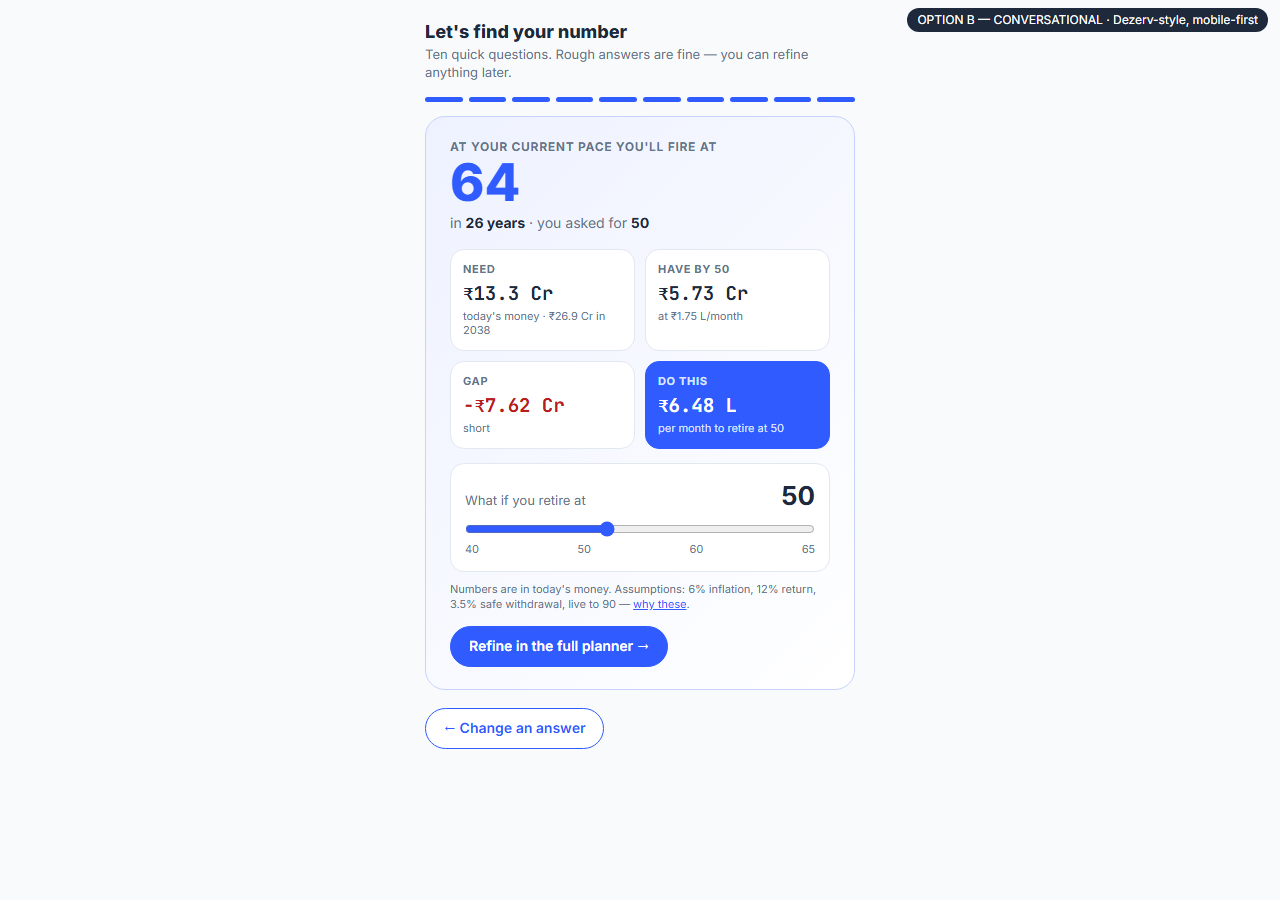
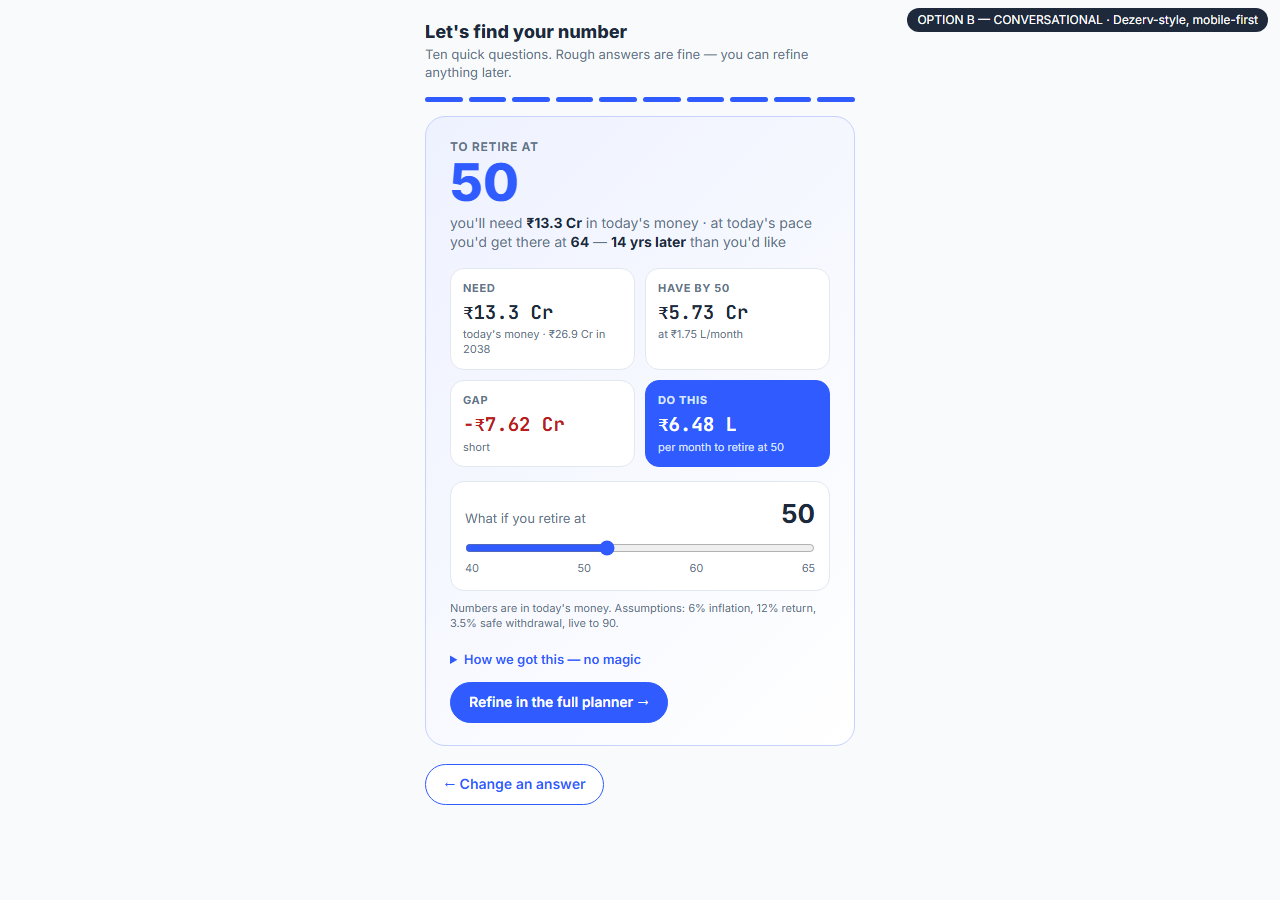
docs(design): Option C merged (B intake → A result, one headline number) + blind-review fixes back-ported to A/B
Reviewer (context-isolated) found: hero showed two ages (pace 64 vs target 50) at equal weight; B's 'why these' was a dead link;
B lacked the house-delta hint; A's raw-rupee inputs invite fat-finger errors; A buried the hero on mobile. C fixes all five;
A/B get the headline fix + real explanation. Screenshots regenerated (390/1280 + result screens).

Claude-Session: https://claude.ai/code/session_01PiqGZ8w4L1igPHy7bza2SS

Changed region(s): [[0.3438, 0.1556, 0.6562, 0.9022]]

diff --git a/docs/design/2026-08-27-quick-number-gap-hero/option-c-merged.html b/docs/design/2026-08-27-quick-number-gap-hero/option-c-merged.html
@@ -1,0 +1,122 @@
+<!doctype html><html><head><meta charset="utf-8"><meta name="viewport" content="width=device-width,initial-scale=1">
+<title>Option C — Merged (B's conversational intake → A's honest result, one headline number)</title>
+<link href="https://fonts.googleapis.com/css2?family=Inter:wght@400;500;600;700;800&family=JetBrains+Mono:wght@500;700&display=swap" rel="stylesheet">
+<link rel="stylesheet" href="fk-mock.css">
+<style>
+.phone{max-width:520px}
+.pace{margin-top:10px;font-size:13px;color:var(--muted);padding:10px 12px;border-radius:12px;background:#fff;border:1px dashed var(--line)}
+.pace b{color:var(--ink)}
+.lakh{position:relative}.lakh input{padding-right:64px}.lakh span{position:absolute;right:12px;top:50%;transform:translateY(-50%);font-size:12px;color:var(--muted);font-weight:600}
+.preview{font-size:12px;color:var(--blue);margin-top:4px;font-weight:600}
+.edit summary{font-size:14px}
+.rows{display:grid;grid-template-columns:1fr 1fr;gap:6px 14px;font-size:13px;margin-top:8px}
+.rows span{color:var(--muted)}.rows b{text-align:right}
+</style></head><body>
+<div class="tag">OPTION C — MERGED · B intake → A result · one number</div>
+<div class="phone">
+<div id="intake">
+  <h1 style="font-size:18px">Let's find your number</h1>
+  <div class="sub">Ten quick questions, answers in lakh. Rough is fine — refine anything later.</div>
+  <div class="dots" id="dots"></div>
+  <div class="card" id="qcard"></div>
+  <div class="sofar" id="sofar"></div>
+  <div class="nav"><button class="btn ghost" id="back">← Back</button><button class="btn" id="next">Next →</button></div>
+</div>
+
+<div id="result" style="display:none">
+  <div class="hero">
+    <div class="eyebrow">To retire at</div>
+    <div class="big" id="tAge">50</div>
+    <div class="when">you'll need <b id="needTop"></b> in today's money · that's <b id="needNom"></b> in <span id="needYear"></span></div>
+    <div class="kpis" style="grid-template-columns:1fr 1fr">
+      <div class="kpi"><div class="k">You'll have by <span id="hAge"></span></div><div class="v mono" id="have"></div><div class="s" id="haveSub"></div></div>
+      <div class="kpi"><div class="k">Gap</div><div class="v mono" id="gap"></div><div class="s" id="gapSub"></div></div>
+      <div class="kpi act" style="grid-column:1/-1"><div class="k">Do this</div><div class="v mono" id="req"></div><div class="s" id="reqSub"></div></div>
+    </div>
+    <div class="slider"><div class="row"><span>Drag your retirement age</span><b id="sv"></b></div><input type="range" id="sl" min="40" max="65"><div class="ticks"><span>40</span><span>45</span><span>50</span><span>55</span><span>60</span><span>65</span></div><div class="hint" id="slHint"></div></div>
+    <div class="pace" id="pace"></div>
+  </div>
+
+  <div class="card"><h3>How we got this — no magic</h3><ol class="explain" id="explain"></ol>
+    <div class="hint" style="margin-top:8px">Assumptions: <span id="assump"></span> · live to 90. Honest defaults, not sales defaults.</div></div>
+  <div class="card"><h3>What you'll have vs what you'll need · today's money</h3><svg class="chart" id="chart" viewBox="0 0 600 170" preserveAspectRatio="none"></svg>
+    <div class="legend" style="font-size:12px"><span style="color:var(--blue)">■</span> have &nbsp; <span style="color:var(--amber)">■</span> need &nbsp; · dashed = your target</div></div>
+  <div class="card edit"><details><summary>Your answers — tap to change</summary><div class="rows" id="rows"></div>
+    <div style="margin-top:12px"><button class="btn ghost" id="reopen">Edit answers</button></div></details></div>
+  <div class="card" style="display:flex;justify-content:space-between;align-items:center;gap:12px">
+    <div><b>Happy with the shape?</b><div class="hint">Refine income, investments, insurance and taxes in the full planner. Your answers carry over.</div></div>
+    <button class="btn" style="flex:none">Open full planner →</button>
+  </div>
+</div>
+</div>
+
+<script src="fk-mock.js"></script>
+<script>
+const $=id=>document.getElementById(id); const i={...FK.AMIT}; const L=FK.L;
+const Q=[
+ {k:"age",q:"How old are you?",h:"We plan from today to age 90 — 40 years of spending, not 15.",type:"num"},
+ {k:"targetAge",q:"When would you like to stop working?",h:"A guess is fine — you'll drag this on the next screen.",type:"chips",opts:[45,50,55,60]},
+ {k:"spend",q:"What does your household spend in a month?",h:"Everything — EMI, school fees, travel, help. ₹2.5–3 L? Say 2.8.",lakh:true},
+ {k:"corpus",q:"Financial savings so far?",h:"Mutual funds + EPF + NPS + PPF + FDs. Not the house you live in.",lakh:true},
+ {k:"sip",q:"How much do you invest every month?",h:"SIPs plus your and your employer's PF, all together.",lakh:true},
+ {k:"spouseCorpus",q:"Spouse's savings, if any?",h:"Their MF + PF. Untick if not applicable.",lakh:true,toggle:"includeSpouse"},
+ {k:"kids",q:"Kids?",h:"How many, and roughly how old?",type:"chips",opts:[0,1,2,3],extra:{k:"kidsAge",label:"Their age",plain:true}},
+ {k:"education",q:"Their education, in today's money?",h:"Undergrad for all kids. Abroad? ₹75 L+ combined.",lakh:true,extra:{k:"postgrad",label:"Post-grad, if any (₹ lakh)"}},
+ {k:"wedding",q:"Weddings?",h:"Today's money, all kids.",lakh:true},
+ {k:"house",q:"Any big purchase coming — bigger home, car?",h:"Net of what you'd sell. Most tools forget this; it moves your date.",lakh:true,toggle:"includeHouse",delta:true},
+];
+let s=0;
+const lakhInput=(id,val)=>`<div class="lakh"><input type="number" id="${id}" value="${(val/L).toFixed(val%L?2:0)}" step="0.5"><span>lakh</span></div><div class="preview" id="${id}p">${FK.inr(val)}</div>`;
+function deltaCopy(){ if(!i.includeHouse) return "Not counted."; const w=FK.compute(i), wo=FK.compute({...i,includeHouse:false}); const d=(w.fireAge??90)-(wo.fireAge??90); return `Counted — it moves your FIRE age by <b>${d} yr</b> and adds <b>${FK.inr(w.requiredSip-wo.requiredSip)}/month</b> to "do this".`; }
+function sofar(){ const r=FK.compute(i); $("sofar").innerHTML = s<2 ? `Answer a few more and your number appears here.` : `So far, to retire at <b>${i.targetAge}</b> you'd need <b>${FK.inr(r.needReal)}</b>${s>=4?` · gap ${r.gapReal>0?"−":"+"}${FK.inr(Math.abs(r.gapReal))}`:""}`; }
+function draw(){
+  $("dots").innerHTML=Q.map((_,j)=>`<i class="${j<=s?"on":""}"></i>`).join("");
+  if(s>=Q.length){showResult();return;}
+  const q=Q[s]; let body="";
+  if(q.lakh) body=lakhInput("in",i[q.k]); else if(q.type==="num") body=`<input type="number" id="in" value="${i[q.k]}">`;
+  if(q.type==="chips") body=`<div class="chips">${q.opts.map(o=>`<span class="chip ${i[q.k]==o?"on":""}" data-v="${o}">${o}</span>`).join("")}</div>`;
+  if(q.toggle) body+=`<label class="toggle" style="margin-top:12px"><input type="checkbox" id="tg" ${i[q.toggle]?"checked":""}> Count this</label>`;
+  if(q.extra) body+=`<label>${q.extra.label}</label>`+(q.extra.plain?`<input type="number" id="ex" value="${i[q.extra.k]}">`:lakhInput("ex",i[q.extra.k]));
+  if(q.delta) body+=`<div class="hint" id="dh" style="margin-top:8px">${deltaCopy()}</div>`;
+  $("qcard").innerHTML=`<div class="q">${q.q}</div><div class="qhint">${q.h}</div>${body}`;
+  const bind=(id,key,lakh)=>{const el=$(id); if(!el) return; el.oninput=()=>{i[key]=lakh?(+el.value||0)*L:(+el.value||0); const p=$(id+"p"); if(p) p.textContent=FK.inr(i[key]); sofar(); if($("dh")) $("dh").innerHTML=deltaCopy();};};
+  bind("in",q.k,!!q.lakh); if(q.extra) bind("ex",q.extra.k,!q.extra.plain);
+  document.querySelectorAll(".chip").forEach(c=>c.onclick=()=>{i[q.k]=+c.dataset.v;draw();});
+  const tg=$("tg"); if(tg) tg.onchange=()=>{i[q.toggle]=tg.checked;sofar(); if($("dh")) $("dh").innerHTML=deltaCopy();};
+  $("back").disabled=s===0; $("next").textContent=s===Q.length-1?"See my number →":"Next →"; sofar();
+}
+function showResult(){ $("intake").style.display="none"; $("result").style.display=""; render(); window.scrollTo(0,0); }
+function render(){
+  const r=FK.compute(i), yr=new Date().getFullYear();
+  $("tAge").textContent=i.targetAge; $("sv").textContent=i.targetAge; $("sl").value=i.targetAge; $("hAge").textContent=i.targetAge;
+  $("needTop").textContent=FK.inr(r.needReal); $("needNom").textContent=FK.inr(r.needNominal); $("needYear").textContent=yr+r.n;
+  $("have").textContent=FK.inr(r.haveReal); $("haveSub").textContent=`at ${FK.inr(i.sip)}/month, today's money`;
+  const short=r.gapReal>0; $("gap").textContent=(short?"−":"+")+FK.inr(Math.abs(r.gapReal)); $("gap").className="v mono "+(short?"bad":"ok"); $("gapSub").textContent=short?"short":"surplus";
+  $("req").textContent=short?FK.inr(r.requiredSip)+" / month":"You're already there";
+  $("reqSub").textContent=short?`invest this every month (you do ${FK.inr(i.sip)} now) to retire at ${i.targetAge}`:`your current ${FK.inr(i.sip)}/month is enough for ${i.targetAge}`;
+  const alt=FK.compute({...i,targetAge:i.targetAge+3});
+  $("slHint").innerHTML=`Three more years (to ${i.targetAge+3}) → <b>${FK.inr(alt.requiredSip)}/month</b>. Drag to feel it.`;
+  const pace=r.fireAge; $("pace").innerHTML = pace==null ? `At today's pace you would <b>not</b> reach this number before 90 — the "do this" amount closes that.` :
+    pace<=i.targetAge ? `At today's pace you'd get there by <b>${pace}</b> — ${i.targetAge-pace} years early.` :
+    `At today's pace you'd get there at <b>${pace}</b> — <b>${pace-i.targetAge} years later</b> than you'd like. The "do this" amount closes that gap.`;
+  $("explain").innerHTML=[
+    `You spend ₹${(i.spend/L).toFixed(1)} L a month → <b>${FK.inr(i.spend*12)}</b> a year. To draw that safely for 40 years we keep it at <b>${+(i.swr*100).toFixed(2)}% of the corpus</b> → <b>${FK.inr(i.spend*12/i.swr)}</b>.`,
+    `Plus one-off goals in today's money — education, post-grad, weddings${i.includeHouse?", the house":""} — <b>${FK.inr(r.goals)}</b>.`,
+    `Your ${FK.inr(i.corpus+(i.includeSpouse?i.spouseCorpus:0))} plus ${FK.inr(i.sip)}/month grow at ${+(i.equityReturn*100).toFixed(0)}% for ${r.n} years; then we <b>remove ${+(i.inflation*100).toFixed(0)}% inflation</b> so you compare like with like → <b>${FK.inr(r.haveReal)}</b>.`,
+    `The scary number others quote (<b>${FK.inr(r.needNominal)}</b>) is the same thing in ${yr+r.n} rupees. We show both and plan in today's.`
+  ].map(t=>`<li>${t}</li>`).join("");
+  $("assump").textContent=`${+(i.inflation*100).toFixed(1)}% inflation · ${+(i.equityReturn*100).toFixed(1)}% return · ${+(i.swr*100).toFixed(2)}% safe withdrawal · investing raised ${+(i.stepUp*100).toFixed(0)}%/yr`;
+  $("rows").innerHTML=[["Age",i.age],["Spend / month",FK.inr(i.spend)],["Savings",FK.inr(i.corpus)],["Spouse savings",i.includeSpouse?FK.inr(i.spouseCorpus):"—"],["Investing / month",FK.inr(i.sip)],["Kids",`${i.kids} · age ${i.kidsAge}`],["Education",FK.inr(i.education)],["Post-grad",FK.inr(i.postgrad)],["Weddings",FK.inr(i.wedding)],["Big purchase",i.includeHouse?FK.inr(i.house):"—"]].map(([k,v])=>`<span>${k}</span><b>${v}</b>`).join("");
+  chart(r);
+}
+function chart(r){
+  const svg=$("chart"),W=600,H=170,P=24; const a0=i.age,a1=Math.max(65,i.targetAge+5); const pts=[];let maxV=0;
+  for(let a=a0;a<=a1;a++){const c=FK.compute({...i,targetAge:a});maxV=Math.max(maxV,c.haveReal,c.needReal);pts.push({a,have:c.haveReal,need:c.needReal});}
+  const x=a=>P+(a-a0)/(a1-a0)*(W-2*P), y=v=>H-P-(v/maxV)*(H-2*P), line=(k,col)=>`<polyline fill="none" stroke="${col}" stroke-width="2.5" points="${pts.map(p=>x(p.a)+","+y(p[k])).join(" ")}"/>`;
+  svg.innerHTML=line("need","#b45309")+line("have","#2F5BFF")+`<line x1="${x(i.targetAge)}" x2="${x(i.targetAge)}" y1="${P}" y2="${H-P}" stroke="#94a3b8" stroke-dasharray="4 4"/><text x="${x(i.targetAge)+4}" y="${P+10}" font-size="11" fill="#64748b">age ${i.targetAge}</text><text x="${P}" y="${H-6}" font-size="10" fill="#64748b">${a0}</text><text x="${W-P-14}" y="${H-6}" font-size="10" fill="#64748b">${a1}</text>`;
+}
+$("sl").oninput=e=>{i.targetAge=+e.target.value;render();};
+$("reopen").onclick=()=>{s=0;$("result").style.display="none";$("intake").style.display="";draw();};
+$("next").onclick=()=>{s++;draw();}; $("back").onclick=()=>{s=Math.max(0,s-1);draw();};
+draw();
+</script></body></html>

diff --git a/docs/design/2026-08-27-quick-number-gap-hero/option-b-conversational.html b/docs/design/2026-08-27-quick-number-gap-hero/option-b-conversational.html
@@ -52,8 +52,9 @@ function draw(){
 function result(){
   const r=FK.compute(i), yrs=r.fireAge?r.fireAge-i.age:null;
   $("qcard").className="hero"; $("sofar").style.display="none"; $("next").style.display="none"; $("back").textContent="← Change an answer";
-  $("qcard").innerHTML=`<div class="eyebrow">At your current pace you'll FIRE at</div><div class="big" id="fa">${r.fireAge??"90+"}</div>
-   <div class="when">${r.fireAge?`in <b>${yrs} years</b> · you asked for <b>${i.targetAge}</b>`:"not before 90 at today's pace"}</div>
+  const pace=r.fireAge, paceTxt = pace==null ? `at today's pace you would <b>not</b> get there before 90` : pace<=i.targetAge ? `at today's pace you'd get there by <b>${pace}</b>` : `at today's pace you'd get there at <b>${pace}</b> — <b>${pace-i.targetAge} yrs later</b> than you'd like`;
+  $("qcard").innerHTML=`<div class="eyebrow">To retire at</div><div class="big" id="fa">${i.targetAge}</div>
+   <div class="when">you'll need <b>${FK.inr(r.needReal)}</b> in today's money · ${paceTxt}</div>
    <div class="kpis" style="grid-template-columns:1fr 1fr">
      <div class="kpi"><div class="k">Need</div><div class="v mono">${FK.inr(r.needReal)}</div><div class="s">today's money · ${FK.inr(r.needNominal)} in ${new Date().getFullYear()+r.n}</div></div>
      <div class="kpi"><div class="k">Have by ${i.targetAge}</div><div class="v mono">${FK.inr(r.haveReal)}</div><div class="s">at ${FK.inr(i.sip)}/month</div></div>
@@ -61,7 +62,12 @@ function result(){
      <div class="kpi act"><div class="k">Do this</div><div class="v mono">${FK.inr(r.requiredSip)}</div><div class="s">per month to retire at ${i.targetAge}</div></div>
    </div>
    <div class="slider"><div class="row"><span>What if you retire at</span><b id="sv">${i.targetAge}</b></div><input type="range" id="sl" min="40" max="65" value="${i.targetAge}"><div class="ticks"><span>40</span><span>50</span><span>60</span><span>65</span></div></div>
-   <div class="hint" style="margin-top:10px">Numbers are in today's money. Assumptions: ${+(i.inflation*100).toFixed(1)}% inflation, ${+(i.equityReturn*100).toFixed(1)}% return, ${+(i.swr*100).toFixed(2)}% safe withdrawal, live to 90 — <a href="#" style="color:var(--blue)">why these</a>.</div>
+   <div class="hint" style="margin-top:10px">Numbers are in today's money. Assumptions: ${+(i.inflation*100).toFixed(1)}% inflation, ${+(i.equityReturn*100).toFixed(1)}% return, ${+(i.swr*100).toFixed(2)}% safe withdrawal, live to 90.</div>
+   <details style="margin-top:10px;border:0"><summary>How we got this — no magic</summary><ol class="explain" style="margin-top:8px;padding-left:18px">
+     <li>₹${(i.spend/FK.L).toFixed(1)} L/month = <b>${FK.inr(i.spend*12)}</b> a year; drawn at <b>${+(i.swr*100).toFixed(2)}%</b> of the corpus for 40 years → <b>${FK.inr(i.spend*12/i.swr)}</b>.</li>
+     <li>Plus one-off goals in today's money — education, post-grad, weddings${i.includeHouse?", the house":""} — <b>${FK.inr(r.goals)}</b>.</li>
+     <li>${FK.inr(i.corpus+(i.includeSpouse?i.spouseCorpus:0))} + ${FK.inr(i.sip)}/month grow at ${+(i.equityReturn*100).toFixed(0)}% for ${r.n} yrs, minus ${+(i.inflation*100).toFixed(0)}% inflation → <b>${FK.inr(r.haveReal)}</b>.</li>
+     <li>The scary number others quote (<b>${FK.inr(r.needNominal)}</b>) is the same thing in ${new Date().getFullYear()+r.n} rupees.</li></ol></details>
    <div style="margin-top:14px"><button class="btn">Refine in the full planner →</button></div>`;
   $("sl").oninput=e=>{i.targetAge=+e.target.value;result();};
 }

diff --git a/docs/design/2026-08-27-quick-number-gap-hero/option-a-quick-number-panel.html b/docs/design/2026-08-27-quick-number-gap-hero/option-a-quick-number-panel.html
@@ -37,7 +37,7 @@
   <details><summary>Assumptions — we picked honest defaults, change if you know better</summary>
     <div class="two">
       <div><label>Inflation</label><input type="number" id="inflation" value="6" step="0.5"><div class="hint">% · India CPI long-run</div></div>
-      <div><label>Return on investments</label><input type="number" id="equityReturn" value="12" step="0.5"><div class="hint">% · equity long-run, not 14</div></div>
+      <div><label>Return on investments</label><input type="number" id="equityReturn" value="12" step="0.5"><div class="hint">% · equity long-run average</div></div>
       <div><label>Safe withdrawal</label><input type="number" id="swr" value="3.5" step="0.25"><div class="hint">% of corpus per year, post-tax</div></div>
       <div><label>Raise investing by</label><input type="number" id="stepUp" value="0" step="1"><div class="hint">% every year (0 = honest floor)</div></div>
     </div>
@@ -48,7 +48,7 @@
 <!-- ===== RIGHT: live results ===== -->
 <div>
   <div class="hero">
-    <div class="eyebrow">At your current pace you'll FIRE at age</div>
+    <div class="eyebrow">To retire at</div>
     <div class="big" id="fireAge">—</div>
     <div class="when" id="fireWhen"></div>
     <div class="kpis">
@@ -94,9 +94,11 @@ function read(){
 }
 function render(){
   const i = read(), r = FK.compute(i);
-  $("fireAge").textContent = r.fireAge ?? "90+";
-  const yrsAt = r.fireAge ? r.fireAge - i.age : null;
-  $("fireWhen").innerHTML = r.fireAge ? `in <b>${yrsAt} years</b> (${new Date().getFullYear()+yrsAt}) at today's investing pace · you asked for <b>${i.targetAge}</b>` : `not before 90 at today's pace — see "Do this"`;
+  $("fireAge").textContent = i.targetAge;
+  const pace = r.fireAge;
+  $("fireWhen").innerHTML = pace==null ? `you'll need <b>${FK.inr(r.needReal)}</b> in today's money · at today's pace you would <b>not</b> get there before 90 — "Do this" closes that`
+    : pace<=i.targetAge ? `you'll need <b>${FK.inr(r.needReal)}</b> in today's money · at today's pace you'd get there by <b>${pace}</b>, ${i.targetAge-pace} yrs early`
+    : `you'll need <b>${FK.inr(r.needReal)}</b> in today's money · at today's pace you'd get there at <b>${pace}</b> — <b>${pace-i.targetAge} yrs later</b> than you'd like`;
   $("need").textContent = FK.inr(r.needReal); $("needSub").textContent = `today's money · = ${FK.inr(r.needNominal)} in ${new Date().getFullYear()+r.n}`;
   $("have").textContent = FK.inr(r.haveReal); $("haveSub").textContent = `by ${i.targetAge}, today's money`;
   const short = r.gapReal > 0;

diff --git a/docs/design/2026-08-27-quick-number-gap-hero/README.md b/docs/design/2026-08-27-quick-number-gap-hero/README.md
@@ -9,6 +9,7 @@ inputs-left / live results-right; assumptions collapsible; live recompute, no Ca
 |---|---|
 | `option-a-quick-number-panel.html` | Desktop-first: 10-field left panel → live "need / have / gap / do this" hero + retirement-age slider + transparent "how we got this" + corpus-vs-need chart |
 | `option-b-conversational.html` | Mobile-first Dezerv-style: one question per card, "your number so far" grows as you answer, lands on the same gap hero |
+| `option-c-merged.html` | **Post-review merge (recommended):** B's one-question intake (lakh inputs, live preview, house-delta hint on the question) → A's honest result (one headline number = target age; pace demoted to an annotation; "how we got this"; chart; editable answers) |
 | `fk-mock.js` / `fk-mock.css` | Shared mock math (simplified real-frame; **not** the kernel) + styles |
 | `shots/` | Screenshots at 390 / 1280 for review (regenerate: `node shots.mjs`) |
 
@@ -17,4 +18,4 @@ FIRE number (hint line shows the age delta), (2) ≤10 inputs, (3) solve-for-req
 (4) retirement-age what-if on the hero. Persona = Amit from the video, in FireKaro's honest defaults
 (6% / 12% / 3.5% SWR / step-up 0 / live to 90) — so the numbers differ from Dezerv's ₹38 Cr on purpose.
 
-Decision: pending Abhay (design gate per GLOBAL.md §6). Not yet in PROJECT-LOG.
+Blind review 2026-08-27 (context-isolated reviewer): A 6.5 · B 6.0 → 5 fixes applied in C + the hero-contradiction fix back-ported to A/B. Decision: pending Abhay (design gate per GLOBAL.md §6). Not yet in PROJECT-LOG.
